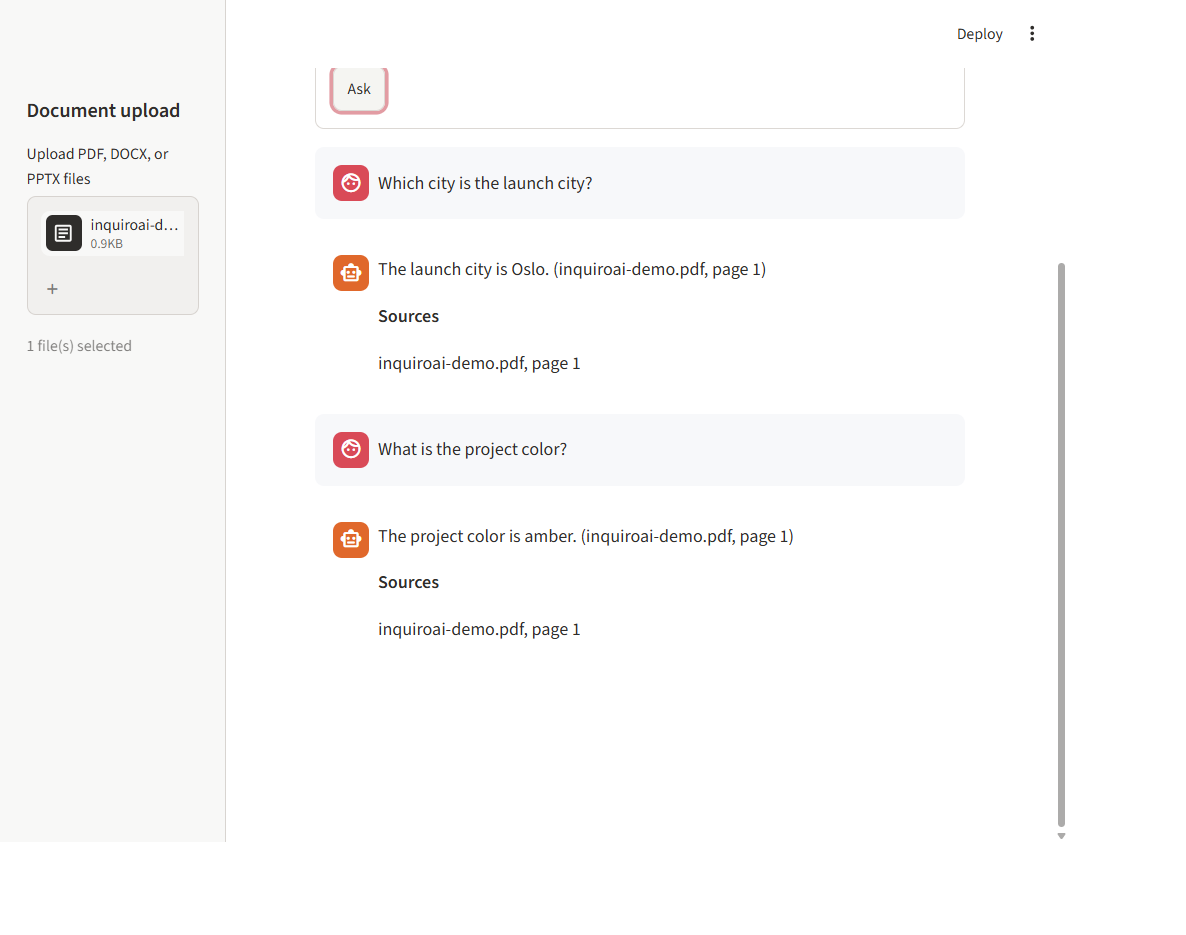
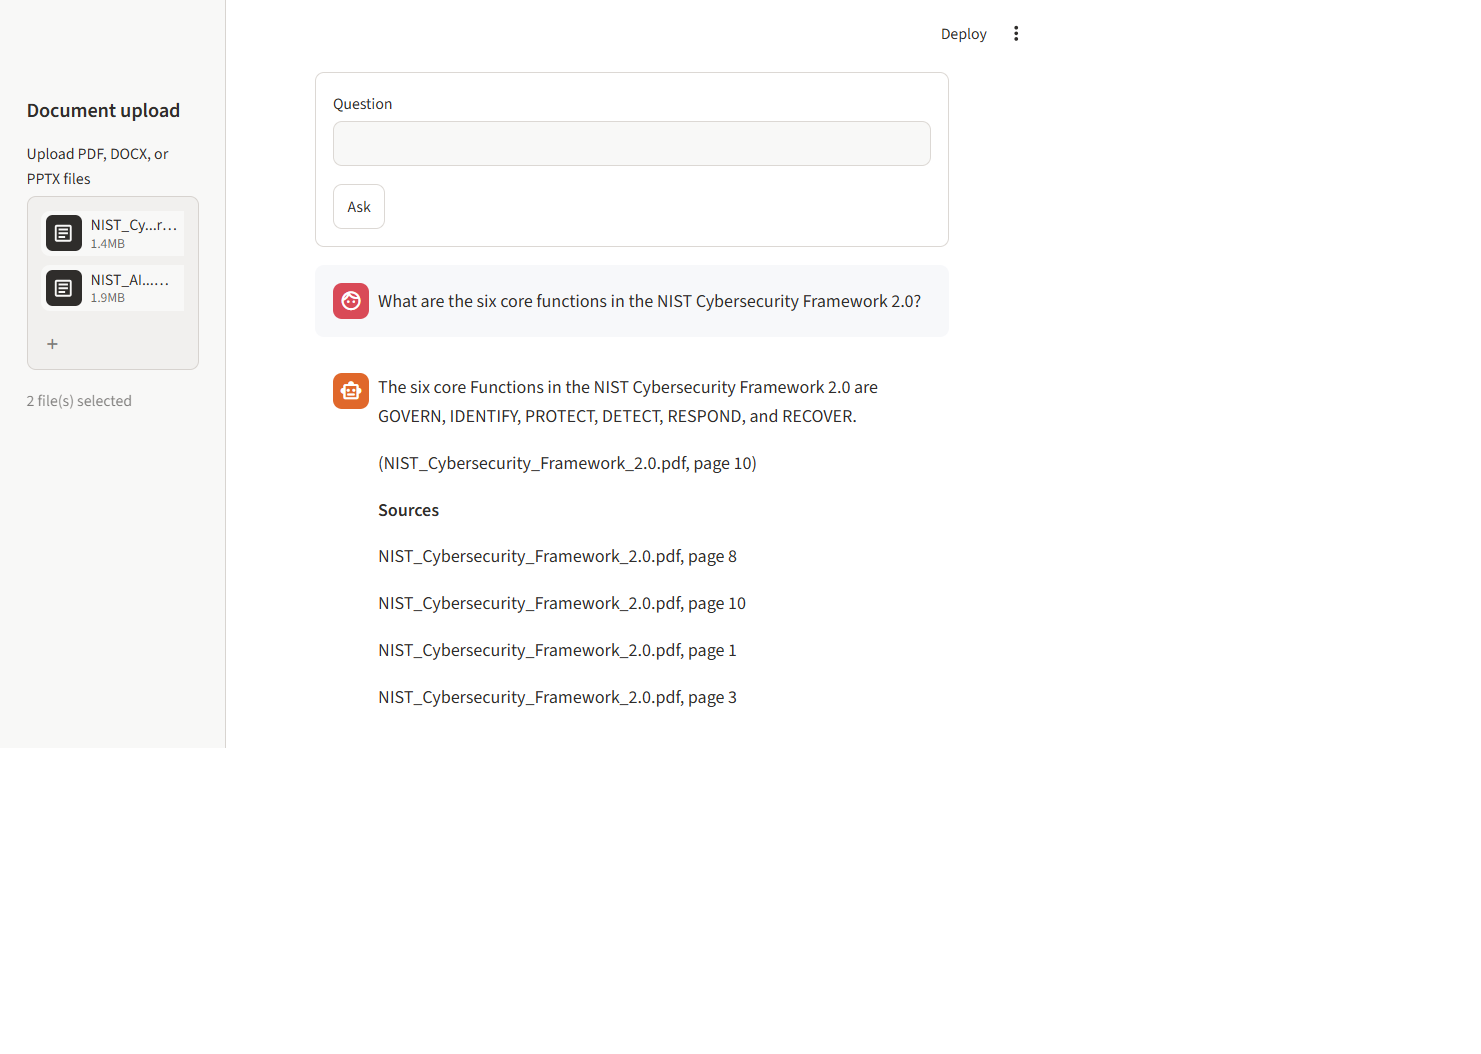
Replace demo screenshot with real NIST Q&A

diff --git a/README.md b/README.md
@@ -6,7 +6,7 @@ InquiroAI is a document question-answering app that retrieves relevant text and 
 
 ![InquiroAI upload screen](./screenshots/inquiroai.png)
 
-![InquiroAI follow-up questions with source citations](./screenshots/inquiroai-follow-up.png)
+![InquiroAI answering a question about the NIST Cybersecurity Framework with page citations](./screenshots/inquiroai-follow-up.png)
 
 ## Features
 
